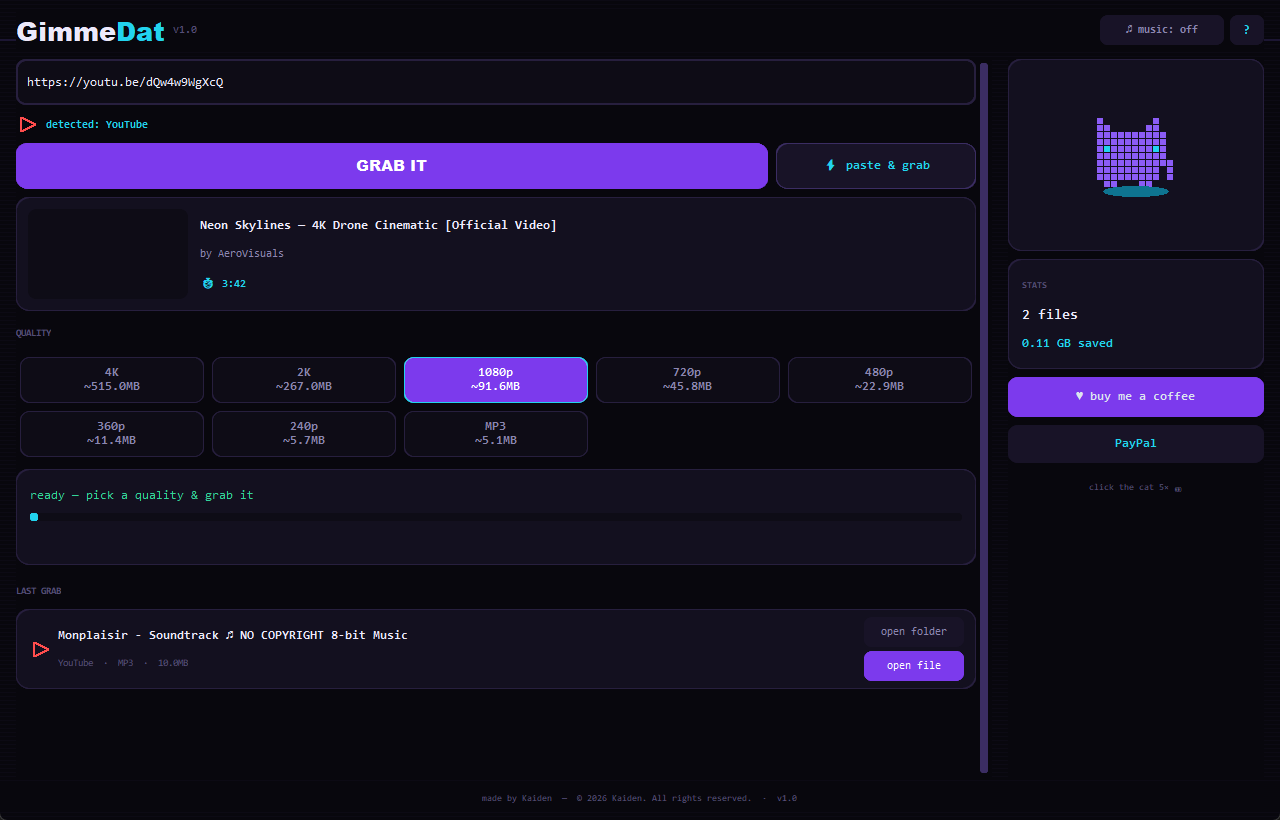
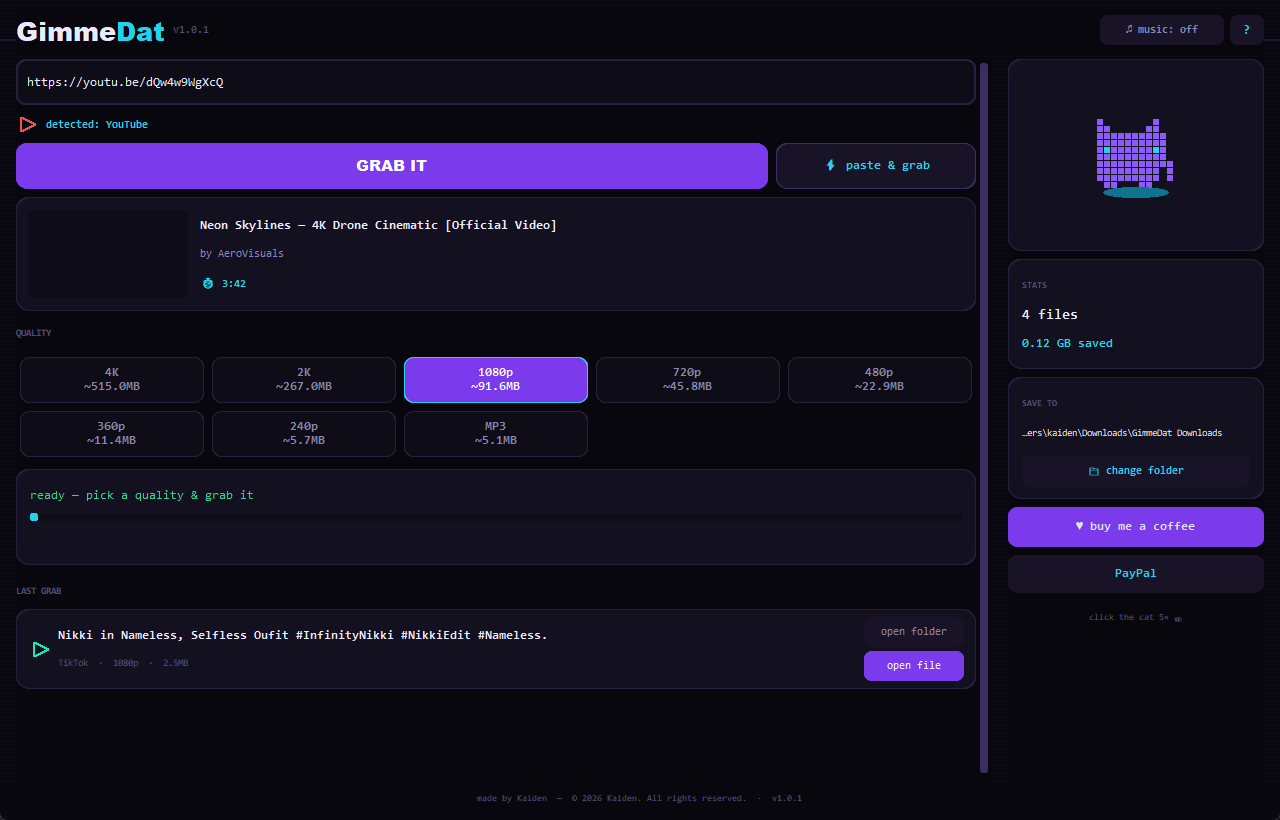
v1.0.1 — custom save folder + flat output
- Pick your save folder (📁 change folder button in the sidebar).
  Choice is persisted between sessions.
- Videos save directly into the chosen folder — no per-platform subdirs.
- User-facing strings rebranded; technical deps remain in requirements.

diff --git a/GimmeDat_source.py b/GimmeDat_source.py
@@ -1,6 +1,6 @@
 """
-GimmeDat v1.0 — a free-forever desktop video downloader.
-Backend : yt-dlp + bundled ffmpeg (imageio-ffmpeg)
+GimmeDat v1.0.1 — a free-forever desktop video downloader.
+Backend : open-source media tools + bundled ffmpeg (imageio-ffmpeg)
 UI      : customtkinter responsive GRID layout, with a tkinter Canvas glitch
           layer behind and a pixel-cat mascot.
 
@@ -50,7 +50,7 @@ _HAS_MCI = hasattr(ctypes, "windll")
 #  CONFIG
 # ─────────────────────────────────────────────────────────────────────────────
 
-VERSION          = "1.0"
+VERSION          = "1.0.1"
 APP_NAME         = "GimmeDat"
 
 BUYMEACOFFEE_URL = "https://buymeacoffee.com/ridhakaiden"
@@ -149,10 +149,10 @@ def find_urls(text: str):
     return [u for u in raw if detect_platform(u)]
 
 
-def get_download_root() -> Path:
+def default_download_root() -> Path:
+    """Default save location — a single flat folder, no per-platform subdirs."""
     root = Path.home() / "Downloads" / "GimmeDat Downloads"
-    for info in PLATFORMS.values():
-        (root / info["label"]).mkdir(parents=True, exist_ok=True)
+    root.mkdir(parents=True, exist_ok=True)
     return root
 
 
@@ -241,6 +241,7 @@ class Stats:
         self.bytes = 0
         self.last = None
         self.geometry = None
+        self.download_dir = None       # user's chosen save folder (None = default)
         self._load()
 
     def _load(self):
@@ -250,6 +251,7 @@ class Stats:
             self.bytes = d.get("bytes", 0)
             self.last = d.get("last")
             self.geometry = d.get("geometry")
+            self.download_dir = d.get("download_dir")
         except Exception:
             pass
 
@@ -258,7 +260,8 @@ class Stats:
             STATS_FILE.parent.mkdir(parents=True, exist_ok=True)
             STATS_FILE.write_text(json.dumps(
                 {"count": self.count, "bytes": self.bytes,
-                 "last": self.last, "geometry": self.geometry}, indent=2),
+                 "last": self.last, "geometry": self.geometry,
+                 "download_dir": self.download_dir}, indent=2),
                 encoding="utf-8")
         except Exception:
             pass
@@ -418,8 +421,8 @@ class GimmeDatApp(*_Base):
         self._set_icon()
 
         # state
-        self._dl_root = get_download_root()
         self.stats = Stats()
+        self._dl_root = self._resolve_download_root()
         self._probe = None
         self._probe_after = None
         self._quality = "1080p"
@@ -466,6 +469,41 @@ class GimmeDatApp(*_Base):
                 self.iconbitmap(str(ico))
             except Exception:
                 pass
+
+    # ── save location ──
+    def _resolve_download_root(self) -> Path:
+        """Use the user's chosen folder if set + still exists, else the default."""
+        if self.stats.download_dir:
+            p = Path(self.stats.download_dir)
+            if p.exists() or self._safe_mkdir(p):
+                return p
+        return default_download_root()
+
+    @staticmethod
+    def _safe_mkdir(p: Path) -> bool:
+        try:
+            p.mkdir(parents=True, exist_ok=True)
+            return True
+        except Exception:
+            return False
+
+    def _pick_download_dir(self):
+        """Folder-picker dialog → persists choice, updates UI label."""
+        from tkinter import filedialog
+        chosen = filedialog.askdirectory(
+            title="Choose where GimmeDat saves videos",
+            initialdir=str(self._dl_root))
+        if not chosen:
+            return
+        p = Path(chosen)
+        if not self._safe_mkdir(p):
+            self._show_toast("can't write there", ERR)
+            return
+        self._dl_root = p
+        self.stats.download_dir = str(p)
+        self.stats.save()
+        self._refresh_folder_label()
+        self._show_toast("save folder updated ✓", OK)
 
     # ─────────────────── LAYOUT ───────────────────
     def _build_layout(self):
@@ -659,17 +697,39 @@ class GimmeDatApp(*_Base):
         self.stats_b = ctk.CTkLabel(st, text="", font=(F_MONO, 12, "bold"), text_color=NEON)
         self.stats_b.pack(anchor="w", padx=14, pady=(0, 12))
 
+        # save-folder card
+        sf = self._card(sb)
+        sf.grid(row=2, column=0, sticky="ew", pady=(8, 0))
+        sf.grid_columnconfigure(0, weight=1)
+        ctk.CTkLabel(sf, text="SAVE TO", font=(F_MONO, 9, "bold"),
+                     text_color=FAINT).grid(row=0, column=0, sticky="w", padx=14, pady=(12, 2))
+        self.folder_lbl = ctk.CTkLabel(sf, text="", font=(F_MONO, 10),
+                                       text_color=TEXT, anchor="w",
+                                       wraplength=240, justify="left")
+        self.folder_lbl.grid(row=1, column=0, sticky="ew", padx=14)
+        ctk.CTkButton(sf, text="📁 change folder", height=32, fg_color=CARD2,
+                      hover_color=GLOW, text_color=NEON, font=(F_MONO, 11, "bold"),
+                      corner_radius=8, command=self._pick_download_dir
+                      ).grid(row=2, column=0, sticky="ew", padx=14, pady=(8, 12))
+
         ctk.CTkButton(sb, text="♥ buy me a coffee", height=40, fg_color=PURPLE,
                       hover_color=VIOLET, font=(F_MONO, 12, "bold"), corner_radius=10,
                       command=lambda: webbrowser.open(BUYMEACOFFEE_URL)
-                      ).grid(row=2, column=0, sticky="ew", pady=(8, 0))
+                      ).grid(row=3, column=0, sticky="ew", pady=(8, 0))
         ctk.CTkButton(sb, text="PayPal", height=38, fg_color=CARD2, hover_color=GLOW,
                       text_color=NEON, font=(F_MONO, 12, "bold"), corner_radius=10,
                       command=lambda: webbrowser.open(PAYPAL_URL)
-                      ).grid(row=3, column=0, sticky="ew", pady=(8, 0))
+                      ).grid(row=4, column=0, sticky="ew", pady=(8, 0))
         ctk.CTkLabel(sb, text="click the cat 5× 👀", font=(F_MONO, 9),
-                     text_color=FAINT).grid(row=4, column=0, pady=(10, 0))
+                     text_color=FAINT).grid(row=5, column=0, pady=(10, 0))
         self._refresh_stats()
+        self._refresh_folder_label()
+
+    def _refresh_folder_label(self):
+        p = str(self._dl_root)
+        if len(p) > 40:
+            p = "…" + p[-39:]
+        self.folder_lbl.configure(text=p)
 
     # ── footer ──
     def _build_footer(self):
@@ -1015,7 +1075,9 @@ class GimmeDatApp(*_Base):
         return opts
 
     def _download_thread(self, url, plat, auto):
-        out_dir = self._dl_root / PLATFORMS[plat]["label"]
+        # save straight into the user's chosen folder, no platform subdirs
+        out_dir = self._dl_root
+        out_dir.mkdir(parents=True, exist_ok=True)
         ffmpeg = get_ffmpeg()
         self._last_file = None
         try:

diff --git a/README.md b/README.md
@@ -4,7 +4,7 @@
 
 ### snatch any video · hd · free forever · no cap
 
-A clean **cyberpunk-glitch** desktop video downloader for 12+ platforms (and 1000+ sites via yt-dlp).
+A clean **cyberpunk-glitch** desktop video downloader for 12+ platforms (and 1000+ sites under the hood).
 Paste, drop, or one-tap a link → it grabs the video.
 
 ![License](https://img.shields.io/badge/license-GPL--3.0-7c3aed?style=for-the-badge)
@@ -20,7 +20,8 @@ Paste, drop, or one-tap a link → it grabs the video.
 
 ## ✨ Features
 
-- 🎬 **12+ platforms** — YouTube, TikTok, Instagram, Pinterest, Twitter/X, Facebook, Reddit, SoundCloud, Vimeo, Twitch, Dailymotion, Bilibili — plus 1000+ more via yt-dlp.
+- 🎬 **12+ platforms** — YouTube, TikTok, Instagram, Pinterest, Twitter/X, Facebook, Reddit, SoundCloud, Vimeo, Twitch, Dailymotion, Bilibili — plus 1000+ more.
+- 📁 **Pick your save folder** — change where videos save anytime; remembered between sessions.
 - 🎯 **Smart quality detection** — probes the link and lights up **only the resolutions that actually exist** (4K → 240p + MP3), each with a **file-size estimate**. No fake upscaling.
 - 📥 **Three ways to load a link** — paste, **drag & drop** a link/tab onto the window, or **⚡ paste & grab** (one-tap clipboard → download).
 - 🖼️ **Rich preview** — thumbnail, title, channel, and duration before you grab.
@@ -75,7 +76,7 @@ Output → `dist\GimmeDat.exe`. See [`BUILD.md`](BUILD.md) for the full guide.
 ## ⚙️ How it works
 
 1. **Detect** the platform from the URL (regex).
-2. **Probe** with yt-dlp (no download) → title, channel, duration, thumbnail, real stream heights + size estimates.
+2. **Probe** the URL (no download) → title, channel, duration, thumbnail, real stream heights + size estimates.
 3. **Select format** — `bestvideo[height<=h] + bestaudio` merged to MP4, or `bestaudio` → MP3.
 4. **Merge** with bundled **ffmpeg** (this is why HD works — without it you'd be capped at 360p).
 5. **Save** into `~/Downloads/GimmeDat Downloads/<Platform>/` and update stats.
@@ -86,7 +87,7 @@ Output → `dist\GimmeDat.exe`. See [`BUILD.md`](BUILD.md) for the full guide.
 
 ## 🧰 Tech stack
 
-`yt-dlp` · `customtkinter` · `tkinter.Canvas` · `Pillow` · `imageio-ffmpeg` · `tkinterdnd2` · `ctypes` (winmm/MCI for music) · `pyinstaller`
+`customtkinter` · `tkinter.Canvas` · `Pillow` · `imageio-ffmpeg` · `tkinterdnd2` · `ctypes` (winmm/MCI for music) · `pyinstaller` + open-source video-extraction libraries
 
 ---
 

diff --git a/BUILD.md b/BUILD.md
@@ -7,7 +7,7 @@
 ```bash
 pip install -r requirements.txt
 ```
-(That's: `yt-dlp customtkinter pillow imageio-ffmpeg tkinterdnd2 pyinstaller`)
+(See `requirements.txt` for the full list — `customtkinter pillow imageio-ffmpeg tkinterdnd2 pyinstaller` + video-extraction backend.)
 
 ## 3. Run from source (optional)
 ```bash
@@ -52,6 +52,6 @@ pyinstaller --onefile --noconsole --name GimmeDat ^
 
 ## Notes
 - **Close GimmeDat.exe before rebuilding**, or you'll get *"Access is denied"*.
-- yt-dlp ages fast. If a site breaks: `pip install -U yt-dlp`, then rebuild.
+- Video sites change often. If one breaks: `pip install -U -r requirements.txt`, then rebuild.
 - Build from a **non-admin** terminal (PyInstaller warns otherwise).
 - The harmless `Library not found: ...DLL` warnings during build are standard Windows system DLLs — ignore them.